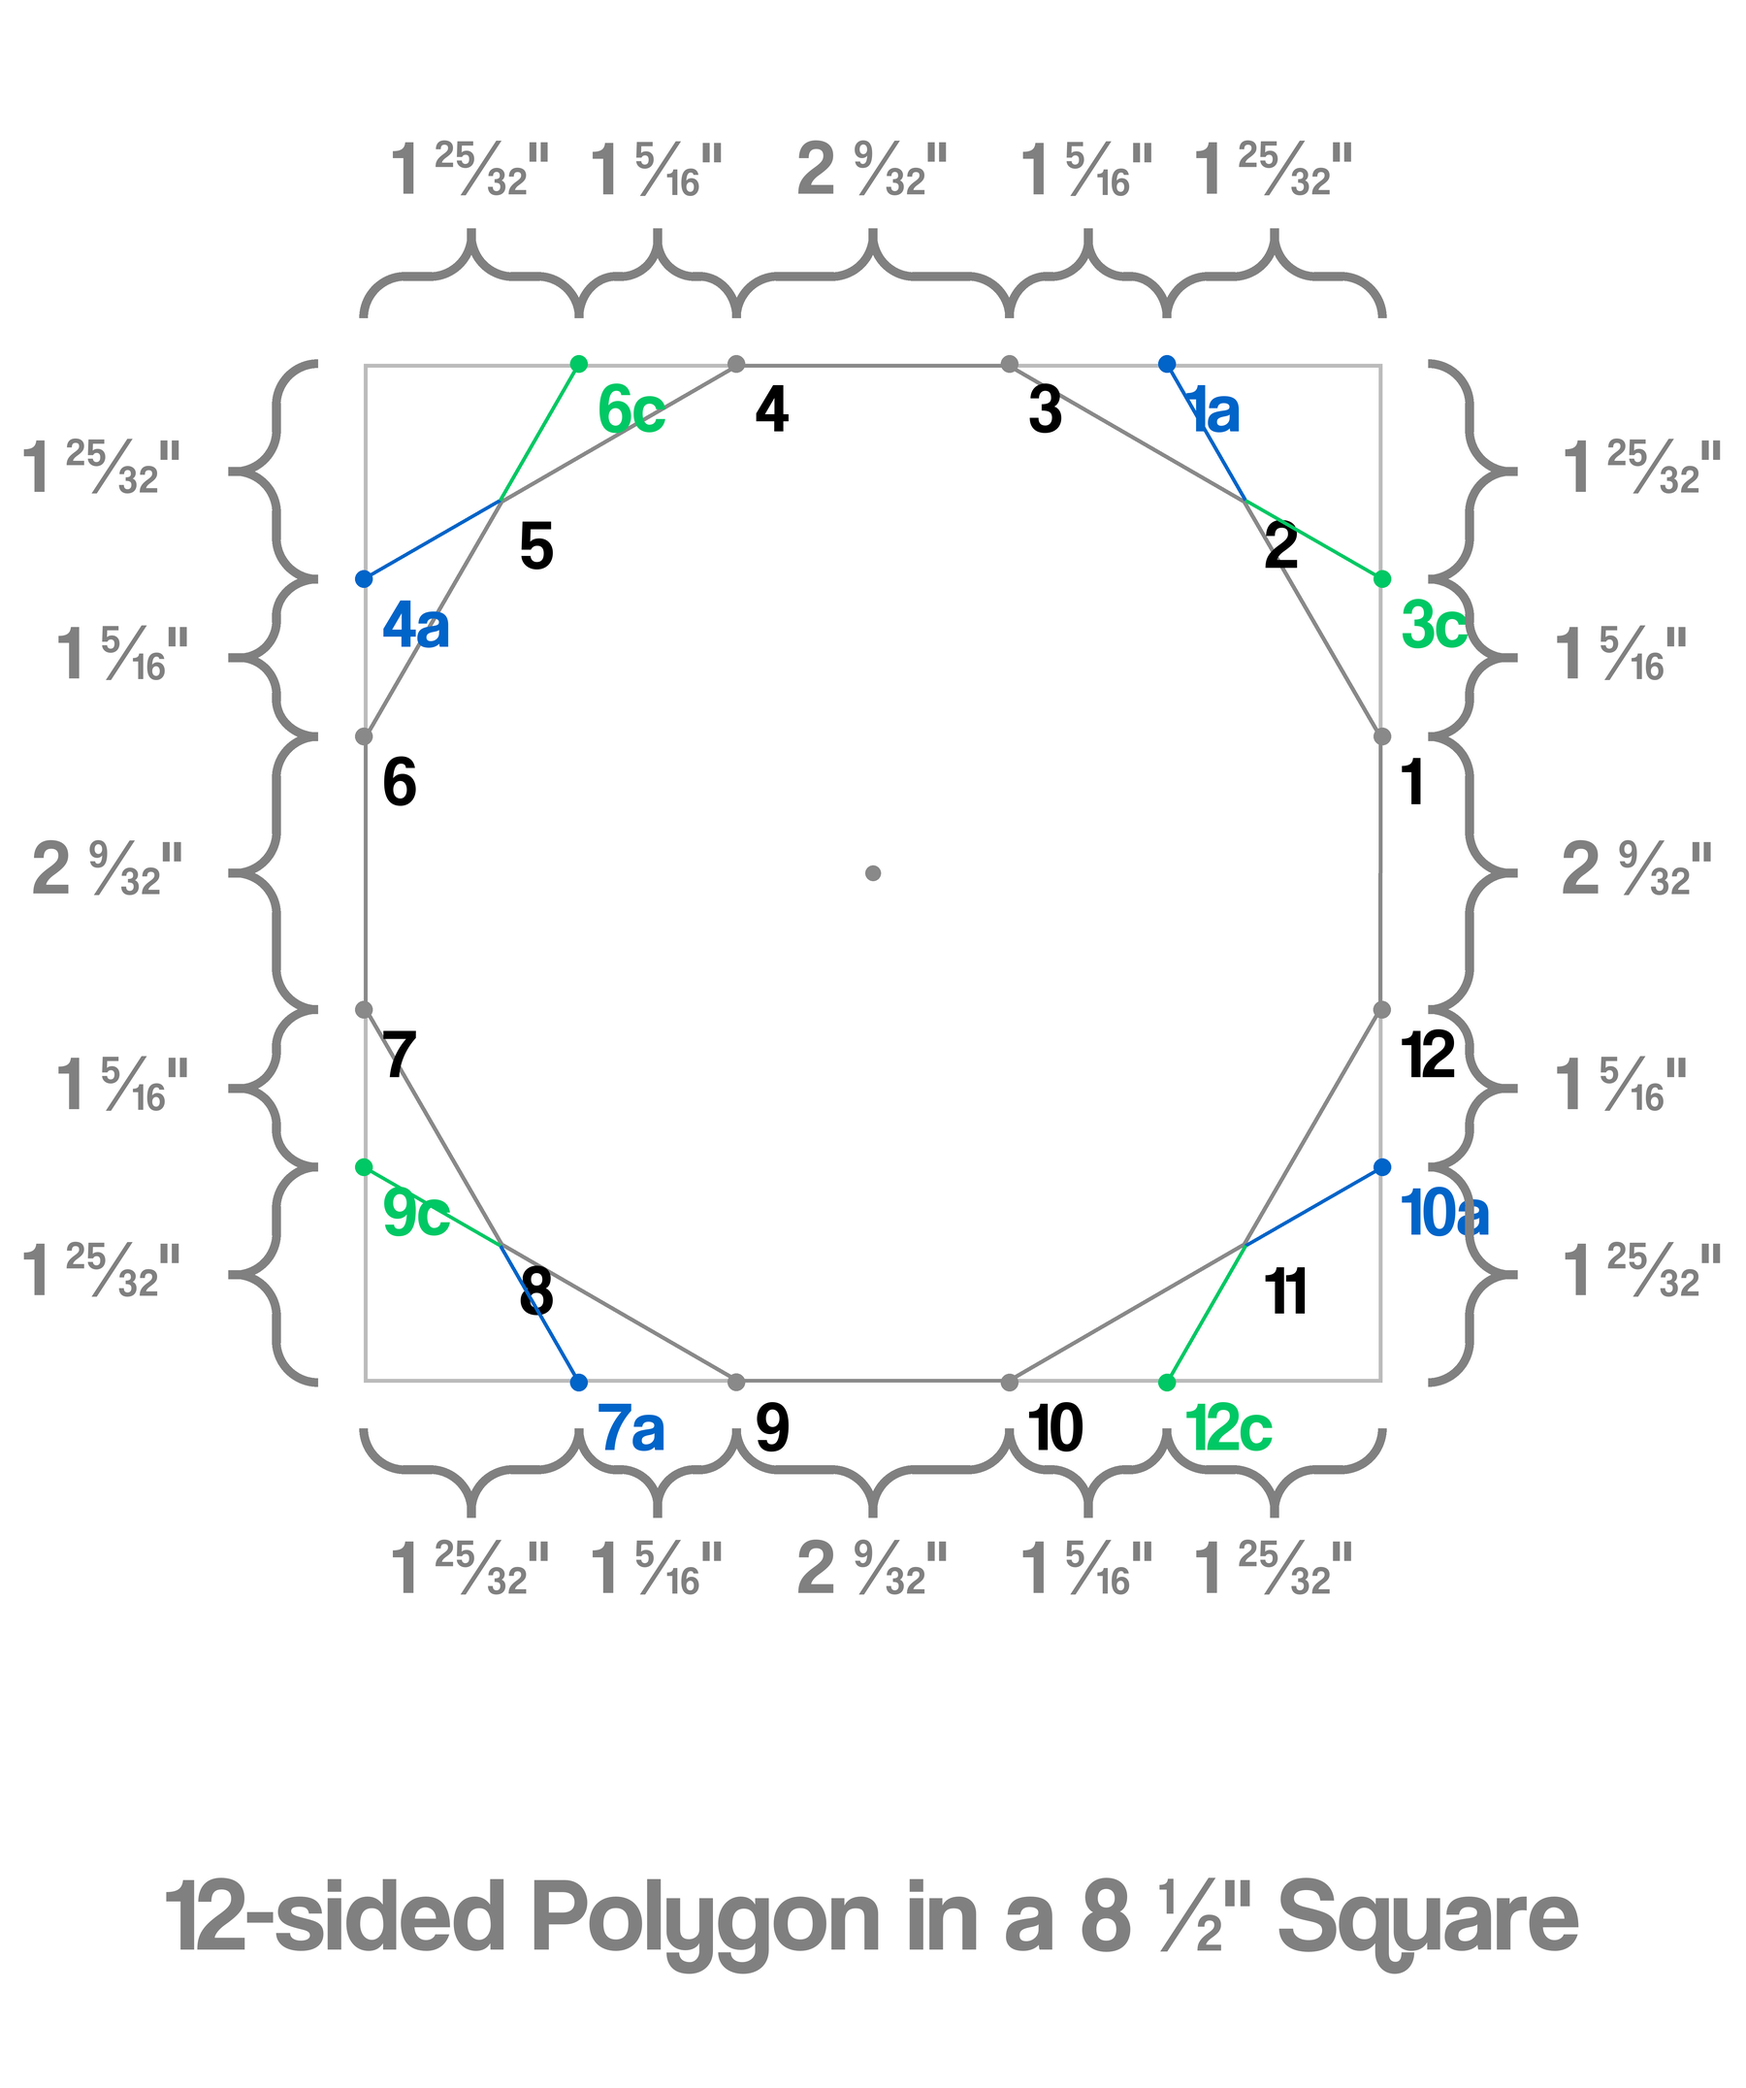
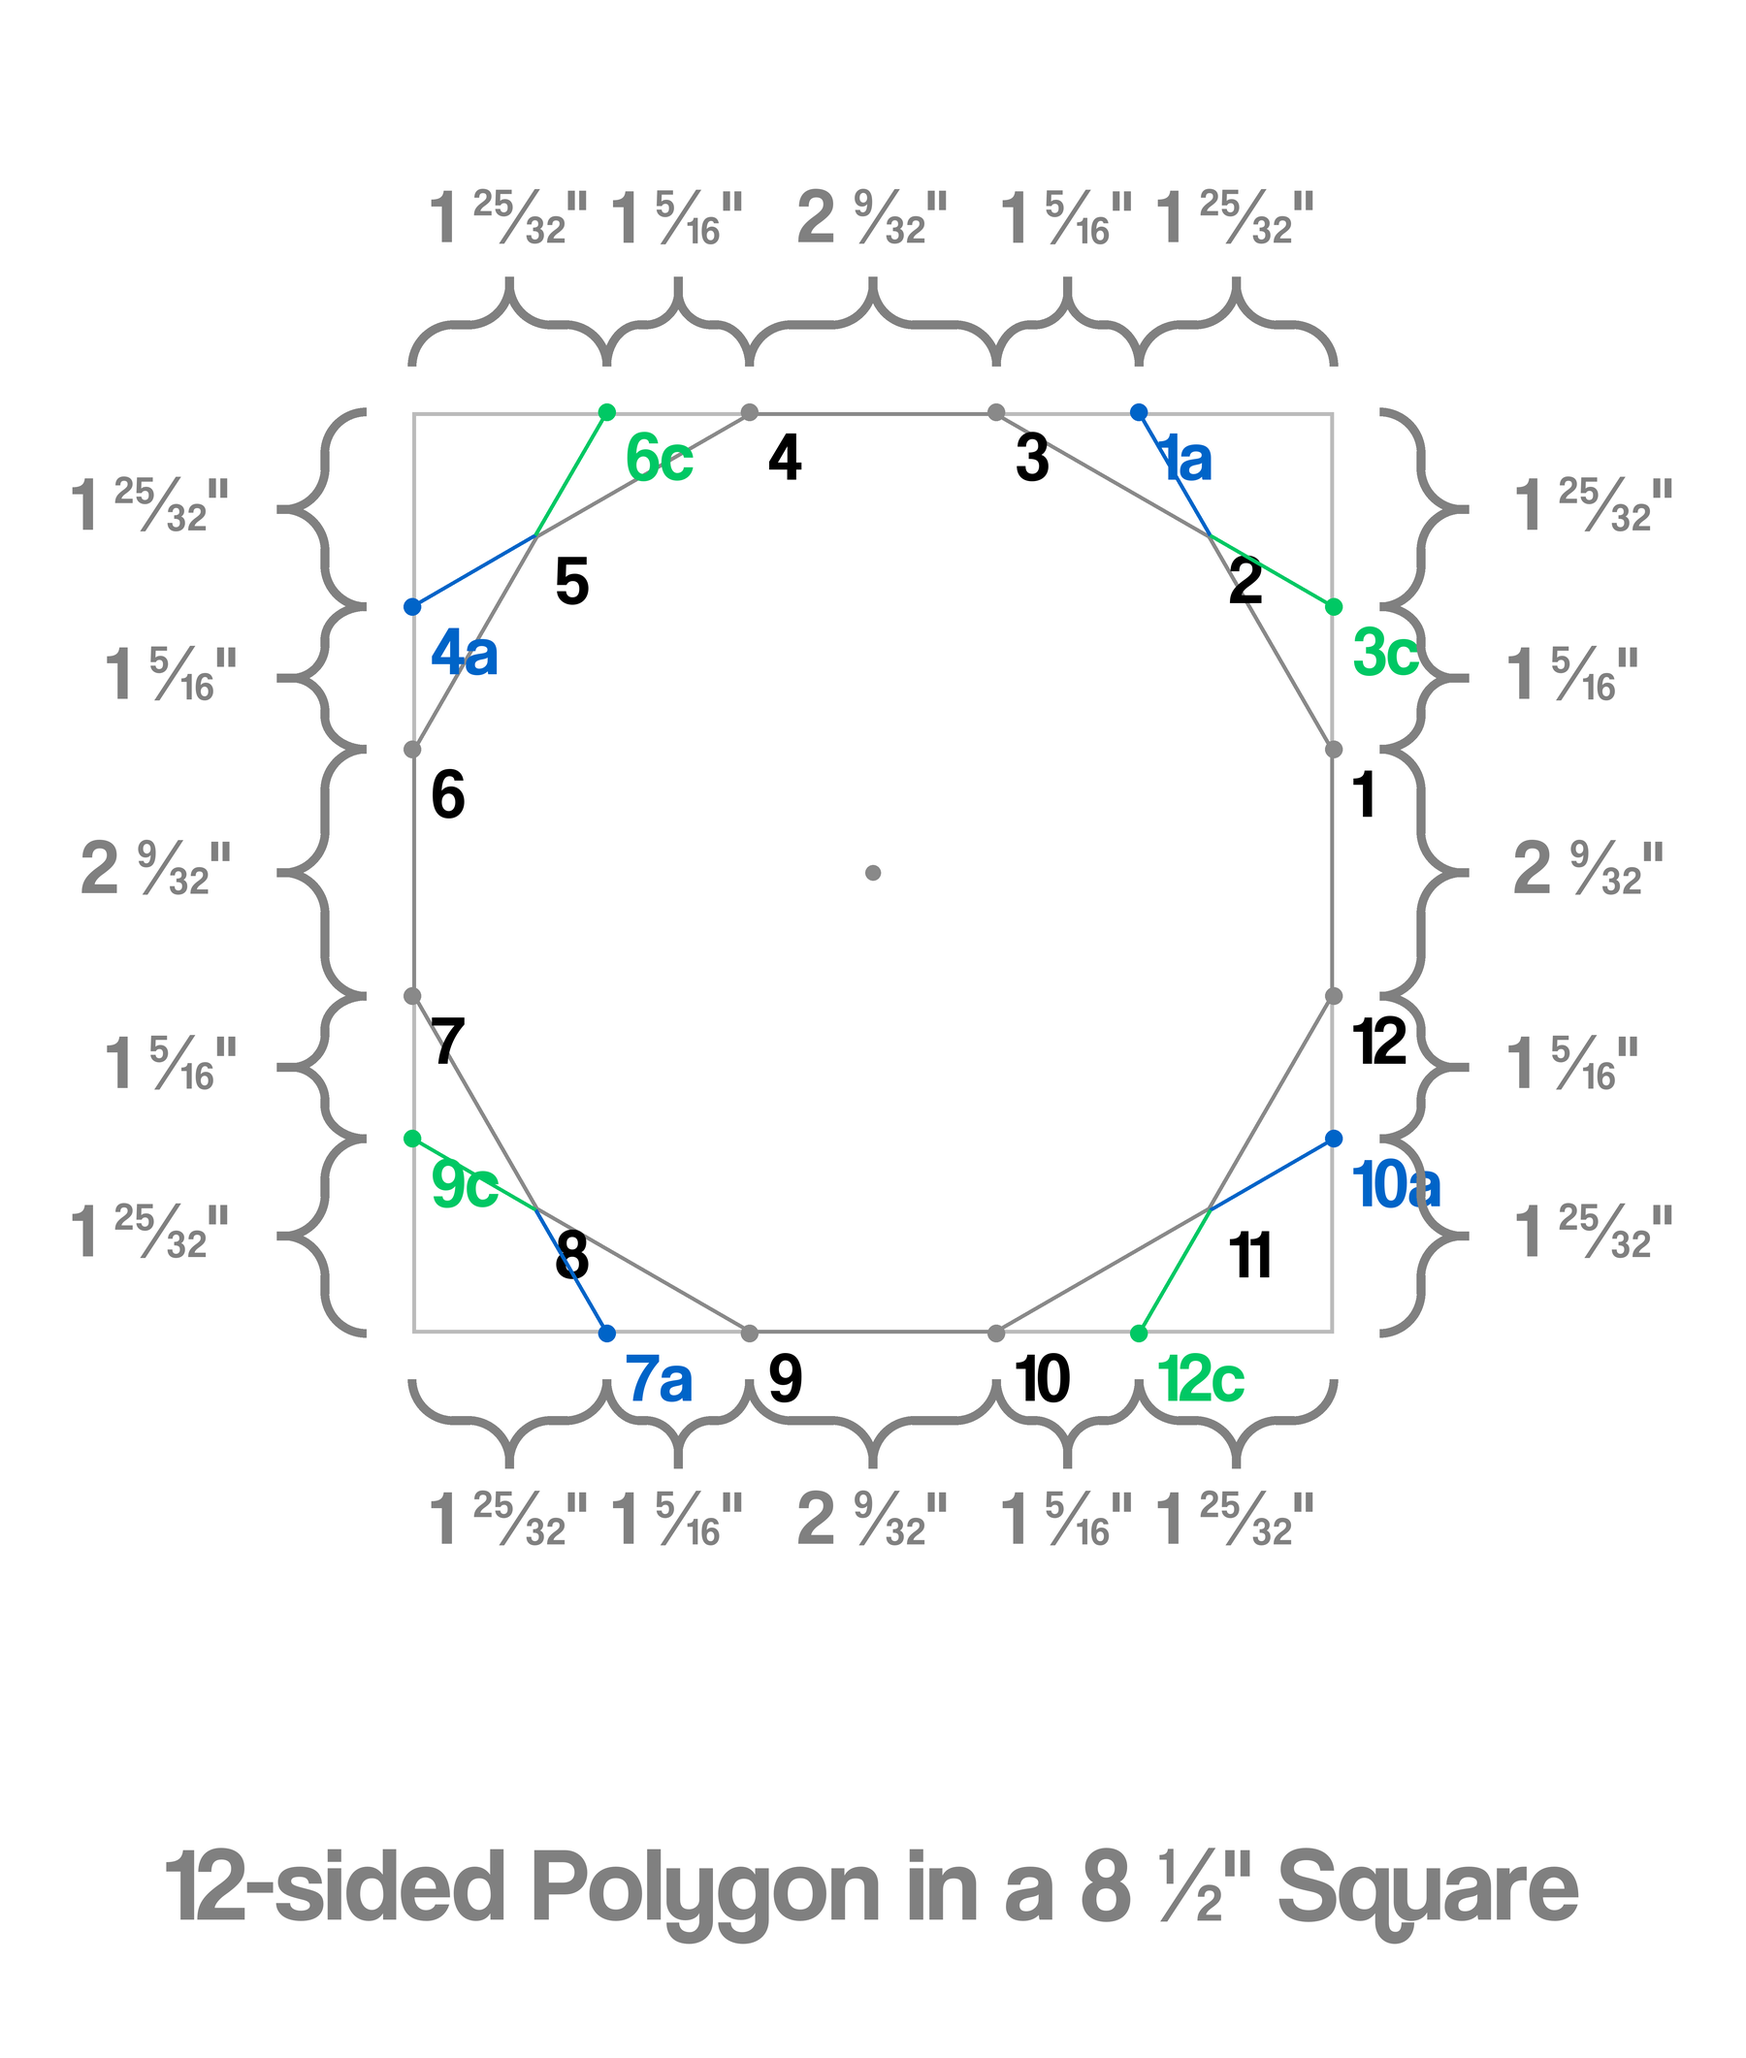
Add files via upload

diff --git a/maxpolygon/_config.py b/maxpolygon/_config.py
@@ -14,9 +14,9 @@ Description: This file defines constants that affect
 # Image output settings.
 ANTIALIAS = 3  # Antialias factor.
 IMG_SIZE = 1800 * ANTIALIAS  # Output image size (pixels)
-SQUARE_PADDING = 375 * ANTIALIAS  # Padding around the square (pixels)
+SQUARE_PADDING = 425 * ANTIALIAS  # Padding around the square (pixels)
 TITLE_LOCATION = "bottom"  # "top", "bottom", or None.
-TITLE_PADDING_PX = 105 * ANTIALIAS
+TITLE_PADDING_PX = 75 * ANTIALIAS
 
 # Program settings.
 MAX_NUM_SIDES = 33  # used for creating a cache of poly points, 3 to n sides.
